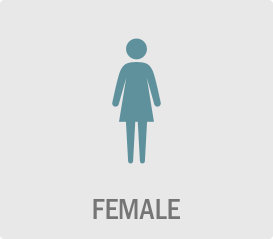
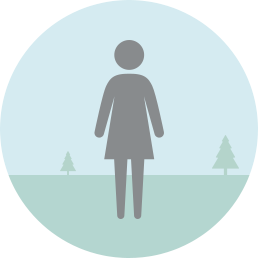
Update design for Gender card
Make it more prettier and fix all the pixels.

[Finishes #64197030]

diff --git a/app/assets/stylesheets/contents.css.scss b/app/assets/stylesheets/contents.css.scss
@@ -57,6 +57,9 @@ div.content_header_card {
     height: 200;
     background-color: #ececec;
     border-top: 1px solid #CCCCCC;
+    &.clear {
+      background-color: transparent;
+    }
 }
 
 div.content_title_card {
@@ -68,6 +71,9 @@ div.content_title_card {
     padding-left:  10px;
     padding-top:   5px;
     padding-right: 10px;
+    &.clear {
+      background-color: transparent;
+    }
 }
 
 .content_subtitle {
@@ -344,20 +350,35 @@ table.content {
   }
 }
 
+.forest {
+  background: url(/assets/forest.png) no-repeat;
+  background-size: 100%;
+  margin: -20px 0px;
+  .content_title_card {
+    margin: 20px 0px 0px 0px;
+  }
+}
+
 .question {
   &.center {
     text-align: center;
   }
   height: 124px;
   img {
-    width: 110px;
-    padding: 0px 15px;
+    width: 130px;
   }
-  .left {
-    float: left;
-  }
-  .right {
-    float: right;
+  .content_text_card {
+    position: relative;
+    .left {
+      position: absolute;
+      top: 20px;
+      left: 16px;
+    }
+    .right {
+      position: absolute;
+      top: 20px;
+      right: 16px;
+    }
   }
 }
 

diff --git a/db/seeds.rb b/db/seeds.rb
@@ -10,7 +10,7 @@ Content.upsert_attributes({title: 'Welcome to Better!'},
                            show_mayo_copyright: false,
                            state_event: :publish})
 
-Question.upsert_attributes({:view => :gender}, {:title => 'Your Gender'})
+Question.upsert_attributes({:view => :gender}, {:title => 'Choose your gender'})
 Question.upsert_attributes({:view => :allergies}, {:title => 'Your Allergies'})
 Question.upsert_attributes({:view => :diet}, {:title => 'Which of these do you eat?'})
 Question.upsert_attributes({:view => :birthdate}, {:title => 'When is your birthdate?'})
